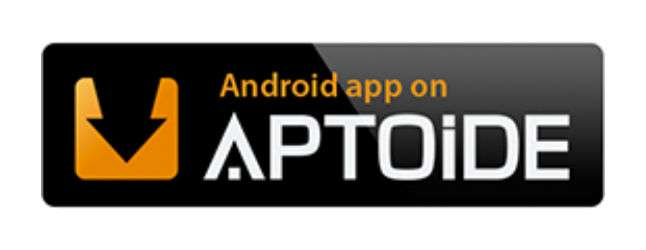
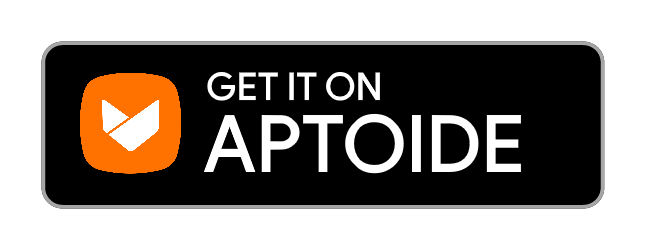
update badge image aptoide

diff --git a/README.md b/README.md
@@ -6,7 +6,7 @@
 [<img src="https://f-droid.org/badge/get-it-on.png" alt="Get it on F-Droid" height="60">](https://f-droid.org/app/com.jtechme.jumpgo)
 <a href="https://play.google.com/store/apps/details?id=com.jtechme.jumpgo"><img src="https://play.google.com/intl/en_us/badges/images/generic/en_badge_web_generic.png" height="60"></a>
 [<img src="getapkfromgithub.png" alt="Download APK from GitHub" height="60">](https://github.com/JTechMe/JumpGo/releases/latest)
-<a href="https://jumpgo.en.aptoide.com/?store_name=jtechme&utm_source=developer&utm_medium=badge&utm_campaign=partner-embed"><img height="60px" alt="Android app on Aptoide" src="https://cdn6.aptoide.com/includes/themes/2014/images/aptoide_badge.png?timestamp=timestamp=20171227"></a>
+<a href="https://jumpgo.en.aptoide.com/?store_name=jtechme&utm_source=developer&utm_medium=badge&utm_campaign=partner-embed"><img height="60px" alt="Android app on Aptoide" src="aptoidebadge.png"></a>
 [<img src="availableatamazon.png" alt="Available at Amazon" height="60">](https://www.amazon.com/JTechMe-JumpGo-Browser/dp/B01KFAPKJA/ref=sr_1_1?s=mobile-apps&ie=UTF8&qid=1471302360&sr=1-1)
 
 #### Master Branch
